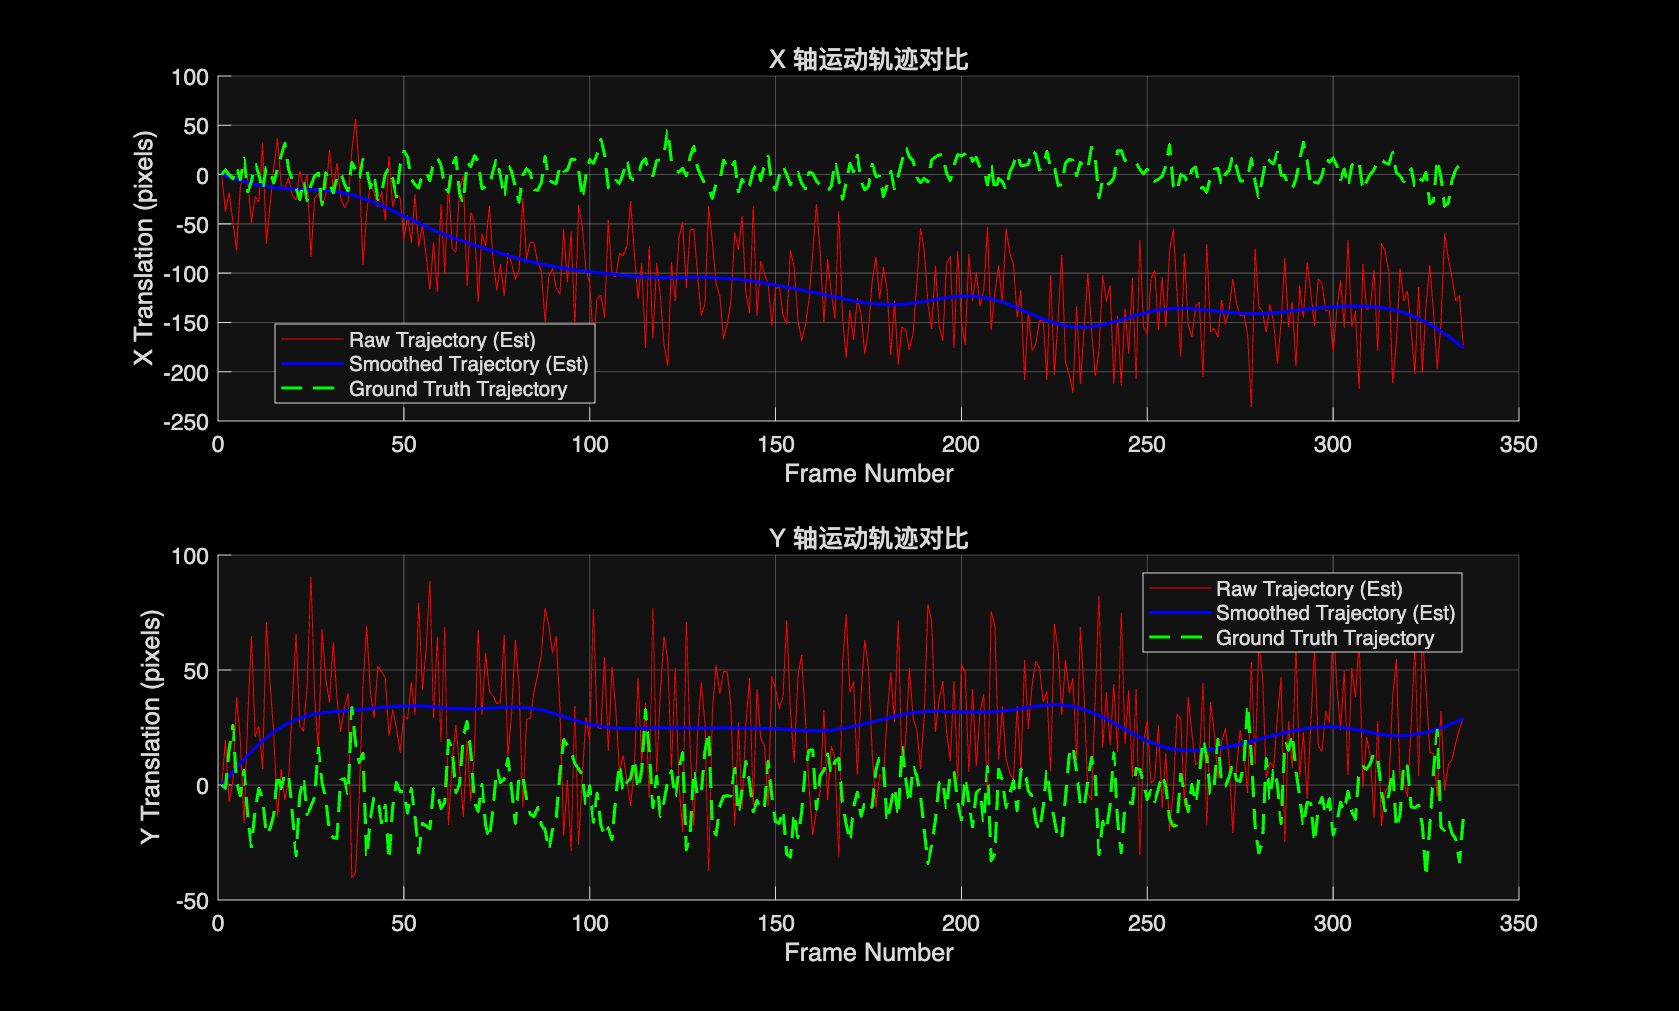
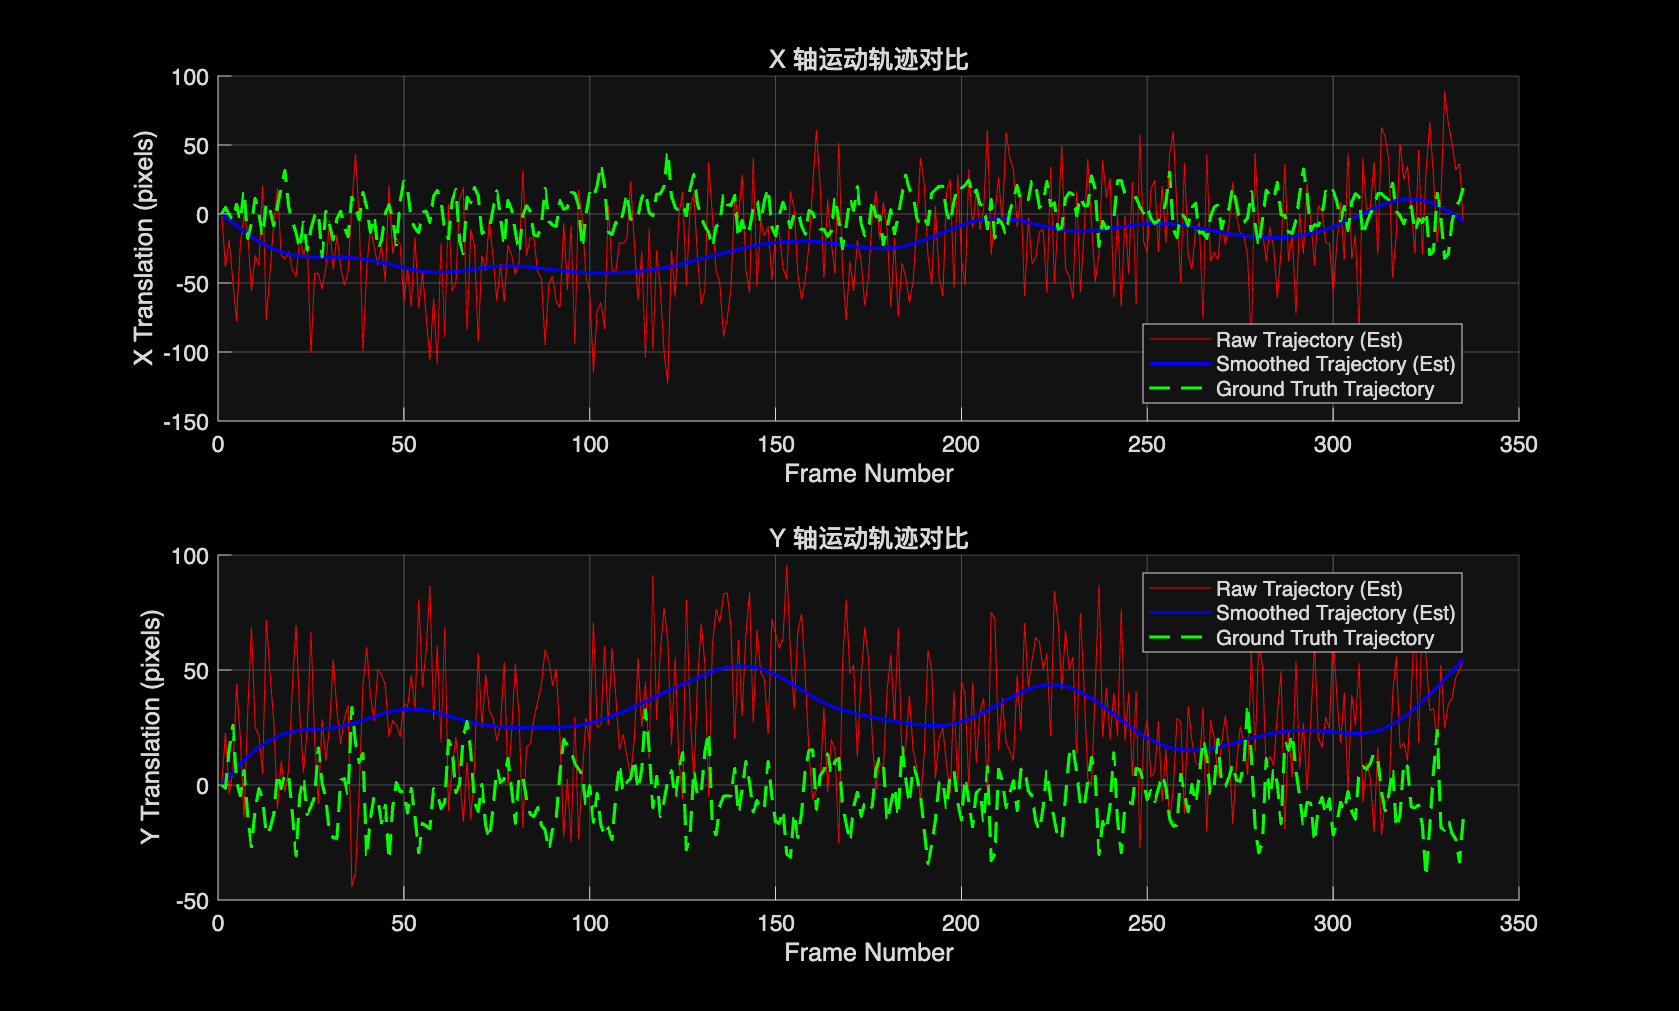
更新视频防抖脚本，修改输入输出路径，调整合成参数，新增技术报告文档

Changed region(s): [[0.0929, 0.1227, 0.8982, 0.3986], [0.1239, 0.6133, 0.8672, 0.8279], [0.0929, 0.1227, 0.1239, 0.1533]]

diff --git a/vlfeat_stabilization/vl_frame_synthesis.m b/vlfeat_stabilization/vl_frame_synthesis.m
@@ -11,12 +11,27 @@ function [diagnostics] = vl_frame_synthesis(videoObj, T_smoothed, T_raw_seq, out
     end
     
     if ~isfield(params, 'enable_deblur'), params.enable_deblur = false; end
+    if ~isfield(params, 'enable_sharpen'), params.enable_sharpen = true; end
     if ~isfield(params, 'exposure_fraction'), params.exposure_fraction = 0.5; end
     if ~isfield(params, 'nsr'), params.nsr = 0.01; end
+    if ~isfield(params, 'crop_ratio'), params.crop_ratio = 0; end
+    if ~isfield(params, 'resize_to_original'), params.resize_to_original = false; end
     
     tic;
     numFrames = size(T_smoothed, 3);
     videoObj.CurrentTime = 0;
+    
+    % 如果开启了裁剪，提前计算裁剪矩形区域
+    if params.crop_ratio > 0
+        crop_x = round(videoObj.Width * params.crop_ratio) + 1;
+        crop_y = round(videoObj.Height * params.crop_ratio) + 1;
+        crop_w = videoObj.Width - 2 * (crop_x - 1);
+        crop_h = videoObj.Height - 2 * (crop_y - 1);
+        % 确保长宽是 16 的倍数 (Mac 上的 MPEG-4 硬件编码器对非 16 像素对齐的视频帧会产生内存步长/画面撕裂错误)
+        crop_w = floor(crop_w / 16) * 16;
+        crop_h = floor(crop_h / 16) * 16;
+        crop_rect = [crop_x, crop_y, crop_w - 1, crop_h - 1];
+    end
     
     v = VideoWriter(outputPath, 'MPEG-4');
     v.FrameRate = videoObj.FrameRate;
@@ -49,8 +64,22 @@ function [diagnostics] = vl_frame_synthesis(videoObj, T_smoothed, T_raw_seq, out
         % 视窗保持原样
         R = imref2d([videoObj.Height, videoObj.Width]);
         
-        % Warp 图像
-        stabilizedFrame = imwarp(frame, tform, 'OutputView', R, 'FillValues', 0);
+        % Warp 图像：使用 'cubic' (双三次插值) 避免默认的线性插值模糊
+        stabilizedFrame = imwarp(frame, tform, 'cubic', 'OutputView', R, 'FillValues', 0);
+        
+        % 裁剪边缘去黑边
+        if params.crop_ratio > 0
+            stabilizedFrame = imcrop(stabilizedFrame, crop_rect);
+            % 如果用户需要，强制放大回原分辨率 (会带来一些放大模糊)
+            if params.resize_to_original
+                stabilizedFrame = imresize(stabilizedFrame, [videoObj.Height, videoObj.Width], 'bicubic');
+            end
+        end
+        
+        % 针对插值导致的轻微模糊，进行一次 USM 锐化补偿
+        if params.enable_sharpen
+            stabilizedFrame = imsharpen(stabilizedFrame, 'Amount', 1.0, 'Radius', 1.5);
+        end
         
         writeVideo(v, stabilizedFrame);
     end

diff --git a/vlfeat_stabilization/run_vlfeat_stabilization.m b/vlfeat_stabilization/run_vlfeat_stabilization.m
@@ -6,14 +6,14 @@ function run_vlfeat_stabilization()
     
     % 2. 输入输出设置
     % 使用项目自带数据，这里假设有 data/test_videos/ 目录
-    videoPath = fullfile('..', 'data', 'test_videos', 'synth_bumpy_riding.mp4');
+    videoPath = fullfile('..', 'data', 'test_videos', 'synth_handheld_walking.mp4');
     if ~exist(videoPath, 'file')
         % 如果没有样本视频，尝试从项目根目录或者提供一个警告
         warning('未找到测试视频 %s, 请指定有效的视频路径。', videoPath);
         return;
     end
     
-    outputPath = fullfile('..', 'data', 'results', 'vlfeat_bumpy_stabilized.mp4');
+    outputPath = fullfile('..', 'data', 'results', 'vlfeat_handheld_stabilized.mp4');
     videoObj = VideoReader(videoPath);
     
     disp('=== 开始基于 VLFeat 的视频防抖流水线 ===');
@@ -31,10 +31,14 @@ function run_vlfeat_stabilization()
     % 阶段 3: 帧合成与去模糊
     disp('阶段三：帧合成与去模糊导出...');
     
-    % 配置去模糊参数
-    synth_params.enable_deblur = true;
-    synth_params.exposure_fraction = 0.3; % 降低曝光占比，防止因为大抖动产生巨大的模糊核导致图像毁灭
-    synth_params.nsr = 0.05;              % 提高 NSR，增强平滑度，抑制剧烈的水波纹 (Ringing Artifacts)
+    % 配置合成参数
+    synth_params.enable_deblur = false;   % 原视频无光学运动模糊，关闭维纳去卷积，防止产生严重的振铃效应和额外模糊！
+    synth_params.enable_sharpen = true;   % 开启 USM 锐化，补偿 imwarp 几何插值带来的平滑
+    synth_params.exposure_fraction = 0.3; % 保留原参数以便未来真实视频使用
+    synth_params.nsr = 0.05;              
+    
+    synth_params.crop_ratio = 0.05;       % 裁剪比例：裁掉边缘的 5% 以去除黑边
+    synth_params.resize_to_original = false; % 不放大回原分辨率，避免强行放大导致的二次模糊
     
     diag_synth = vl_frame_synthesis(VideoReader(videoPath), T_smoothed, T_sequence, outputPath, synth_params);
     fprintf('帧合成耗时: %.2f ms\n', diag_synth.total_time_ms);

diff --git a/vlfeat_stabilization/technical_report.md b/vlfeat_stabilization/technical_report.md
@@ -1,0 +1,93 @@
+# 视频运动防抖与画面去模糊技术报告（基于 VLFeat）
+
+## 1. 项目概述
+
+本项目实现了一套基于 MATLAB 的视频防抖与画面去模糊流水线，主要依靠传统计算机视觉算法（不依赖深度学习）。该系统的核心特征提取部分采用了 VLFeat 库提供的 SIFT 算法。整体流水线分为三个主要阶段：
+1. **运动估计 (Motion Estimation)**：提取视频相邻帧间的全局运动（仿射变换）。
+2. **运动平滑 (Motion Smoothing)**：滤除高频随机抖动，保留摄像机的低频意图运动。
+3. **帧合成与去模糊 (Frame Synthesis & Deblurring)**：对模糊帧进行运动逆向去卷积（Wiener 滤波），并通过几何仿射变换重组生成稳定视频。
+
+本报告详细解析了上述三个阶段及各子模块的底层技术原理。
+
+---
+
+## 2. 阶段一：运动估计 (Motion Estimation)
+
+**对应文件**：`vl_motion_estimation.m`
+
+该阶段的目的是估算视频中每一帧相对于前一帧的 2D 几何变换矩阵（此处采用具有 6 自由度的仿射变换 `Affine Transform`）。
+
+### 2.1 特征检测与描述 (SIFT)
+在缺少硬件陀螺仪数据的情况下，必须依靠画面特征点进行运动追踪。系统对读入的视频帧执行灰度化，转换为单精度浮点型（`single`）后，调用 VLFeat 的 `vl_sift` 函数。
+* **SIFT (Scale-Invariant Feature Transform)**：能在多尺度空间内寻找极值点，并提取 128 维具有尺度、旋转和光照不变性的特征描述子。
+
+### 2.2 特征匹配 (Feature Matching)
+使用 `vl_ubcmatch` 对前后两帧提取出的 SIFT 特征集进行匹配。该函数底层基于欧氏距离计算相似度，并采用 Lowe's Ratio Test（最近邻距离与次近邻距离的比例阈值，代码中设为 1.5）来剔除歧义度高的误匹配点。
+
+### 2.3 RANSAC 鲁棒模型拟合
+匹配到的点对中往往包含大量前景运动物体或误匹配带来的外点（Outliers）。为了计算代表全局背景摄像机运动的仿射矩阵，系统采用 RANSAC（随机抽样一致性）算法：
+* 调用 MATLAB 的 `estimateGeometricTransform2D(..., 'affine')`。
+* 不断随机选取 3 对（仿射变换所需最小点对数）匹配点来拟合变换矩阵，并统计支持该矩阵的内点数量。
+* 最终输出拥有最多内点的 $3 \times 3$ 仿射变换矩阵 $T$（从当前帧到上一帧）。若匹配点不足，则主动回退（Fallback）到单位矩阵 $I$。
+
+---
+
+## 3. 阶段二：运动平滑 (Motion Smoothing)
+
+**对应文件**：`vl_motion_smoothing.m`
+
+原始估计出的帧间变换矩阵包含了高频的随机抖动和低频的摄像机平移/摇摄意图。本模块利用高斯低通滤波器滤除高频抖动。
+
+### 3.1 绝对轨迹累积
+单纯的帧间平滑难以获得良好的全局稳定效果。算法首先通过矩阵连乘，将所有帧间相对变换转换到以第一帧为基准的绝对坐标系中，得到累积轨迹 $T_{cum}(i) = T_{seq}(i) \times T_{cum}(i-1)$。
+
+### 3.2 参数分解与高斯平滑
+为了避免直接对矩阵插值导致非法的几何变形，算法将每一帧的 $3 \times 3$ 仿射变换矩阵分解为其 6 个基本参数 $(a, b, c, d, t_x, t_y)$：
+$$ T = \begin{bmatrix} a & c & 0 \\ b & d & 0 \\ t_x & t_y & 1 \end{bmatrix} $$
+
+接着在时间轴上应用高斯低通滤波：
+* **构建高斯窗口**：以用户指定的 `windowSize`（如 30 帧）为跨度，标准差 $\sigma = \text{windowSize}/3$。
+* **零相移滤波 (Zero-phase Filtering)**：使用 `filtfilt` 对这 6 个参数序列分别滤波。`filtfilt` 的前向和后向双重滤波保证了平滑后的波形不会产生时间轴上的相位偏移滞后。
+
+### 3.3 补偿变换矩阵计算
+最后将平滑后的 6 个参数重新组装成平滑绝对矩阵 $T_{smooth}$。针对第 $i$ 帧，其所需的修正补偿变换 $T_{correction}$ 为：
+$$ T_{correction} = T_{cum}(i) \times T_{smooth}(i)^{-1} $$
+由于浮点精度问题，最后对矩阵的最后一列进行强制修正（保证为 $[0; 0; 1]$）。
+
+---
+
+## 4. 阶段三：帧合成与去模糊 (Frame Synthesis)
+
+**对应文件**：`vl_frame_synthesis.m`, `vl_estimate_blur_kernel.m`, `vl_wiener_deblur.m`
+
+在获得了最优的平滑补偿矩阵后，对原视频逐帧应用修正，并附带画面增强功能。
+
+### 4.1 物理运动模糊核估计 (PSF Estimation)
+当摄像机发生剧烈抖动时，较慢的快门速度会导致画面出现线性运动模糊。由于我们已经掌握了精确的帧间原始运动轨迹，可直接“白嫖”这些物理参数来估算点扩散函数（Point Spread Function, PSF）。
+* **提取运动矢量**：从 $T_{raw}$ 提取出平移分量 $dx$ 和 $dy$。
+* **运动长度与方向**：位移幅度乘以相机的曝光时间占比（`exposure_fraction`，如 0.5），即可推算出物理模糊核的长度 $L$。角度 $\theta = \arctan(-dy, dx)$。
+* **生成 PSF**：通过 `fspecial('motion', L, \theta)` 构造线性的运动模糊核。
+
+### 4.2 非盲维纳去卷积 (Wiener Deconvolution)
+利用估算好的 PSF，采用维纳滤波算法对图像进行还原。
+* **边界振铃抑制**：在进行频域去卷积前，必须调用 `edgetaper` 对图像边缘进行渐变柔化处理。如果不执行这一步，傅里叶变换的周期性假设会导致画面边缘产生极强的水波纹（Ringing Artifacts）。
+* **维纳滤波**：通过 `deconvwnr(img, PSF, nsr)` 进行反卷积。该算法利用信噪比倒数参数 `nsr` 在“锐化”和“噪声放大”之间寻找最佳平衡点。
+
+### 4.3 几何仿射重映射 (Image Warping)
+使用 `imwarp` 和补偿变换矩阵 $T_{correction}$ 将图像扭曲至平滑稳定位置。
+* 采用了 `cubic`（双三次插值）而不是简单的双线性插值，最大程度减少了几何重映射导致的像素模糊。
+* 对边缘补 0（黑色）。
+
+### 4.4 裁剪、补偿锐化与编码
+* **裁剪 (Crop)**：因防抖会使画面边缘进入黑边区域，算法按照设定的裁剪比例（`crop_ratio`）对画面四周进行裁剪。为了兼容 MPEG-4 编码器，裁剪后的长宽被严格向下取整为 16 的倍数，防止花屏与内存报错。
+* **USM 锐化 (Unsharp Masking)**：尽管使用了三次插值，重映射依然会导致高频细节微弱流失。最后调用 `imsharpen` 进行一次 USM 补偿锐化。
+* 最终利用 `VideoWriter` 编码为 MPEG-4 格式输出。
+
+---
+
+## 5. 性能与系统评估机制
+
+在完成全部处理流程后，入口脚本 `run_vlfeat_stabilization.m` 中集成了算法的性能评估体系：
+1. **时间诊断 (Diagnostics)**：所有子模块通过 `tic/toc` 记录并回传运行耗时（如 `avg_time_per_frame_ms`），供开发者平衡防抖精度和计算开销（例如控制在单帧 100ms 左右的因果限制）。
+2. **基准对比 (RMSE Evaluation)**：若提供了 Ground Truth 数据（包含理论平移量 `Tx, Ty`），算法将计算稳定后轨迹与真值间的均方根误差（RMSE）。
+3. **轨迹可视化 (Visualization)**：自动将估计出的原始抖动轨迹（红色）、算法平滑后的轨迹（蓝色）与 Ground Truth 理想轨迹（绿色虚线）绘制在二维坐标系中直观比对，输出诊断图表。
